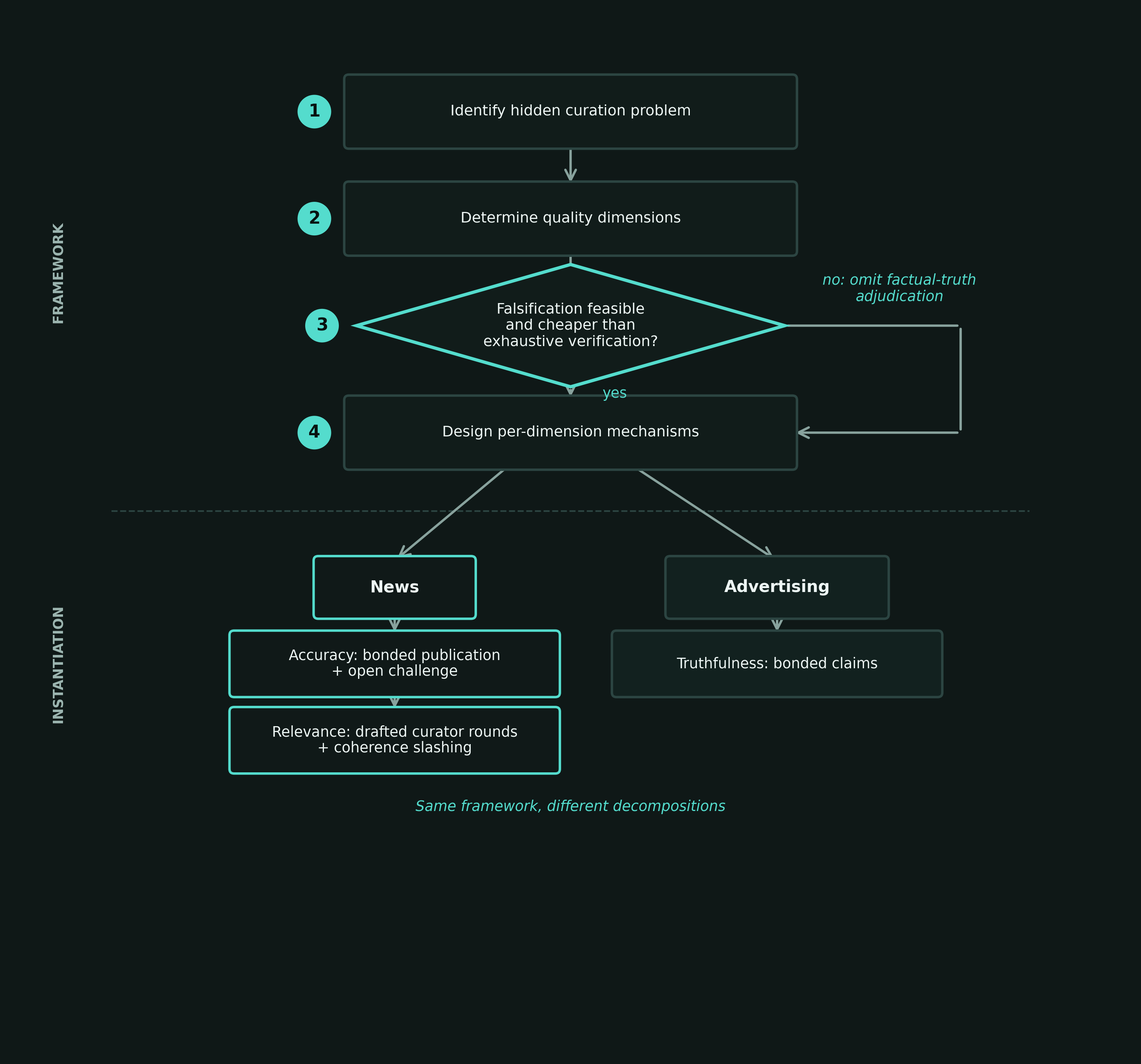
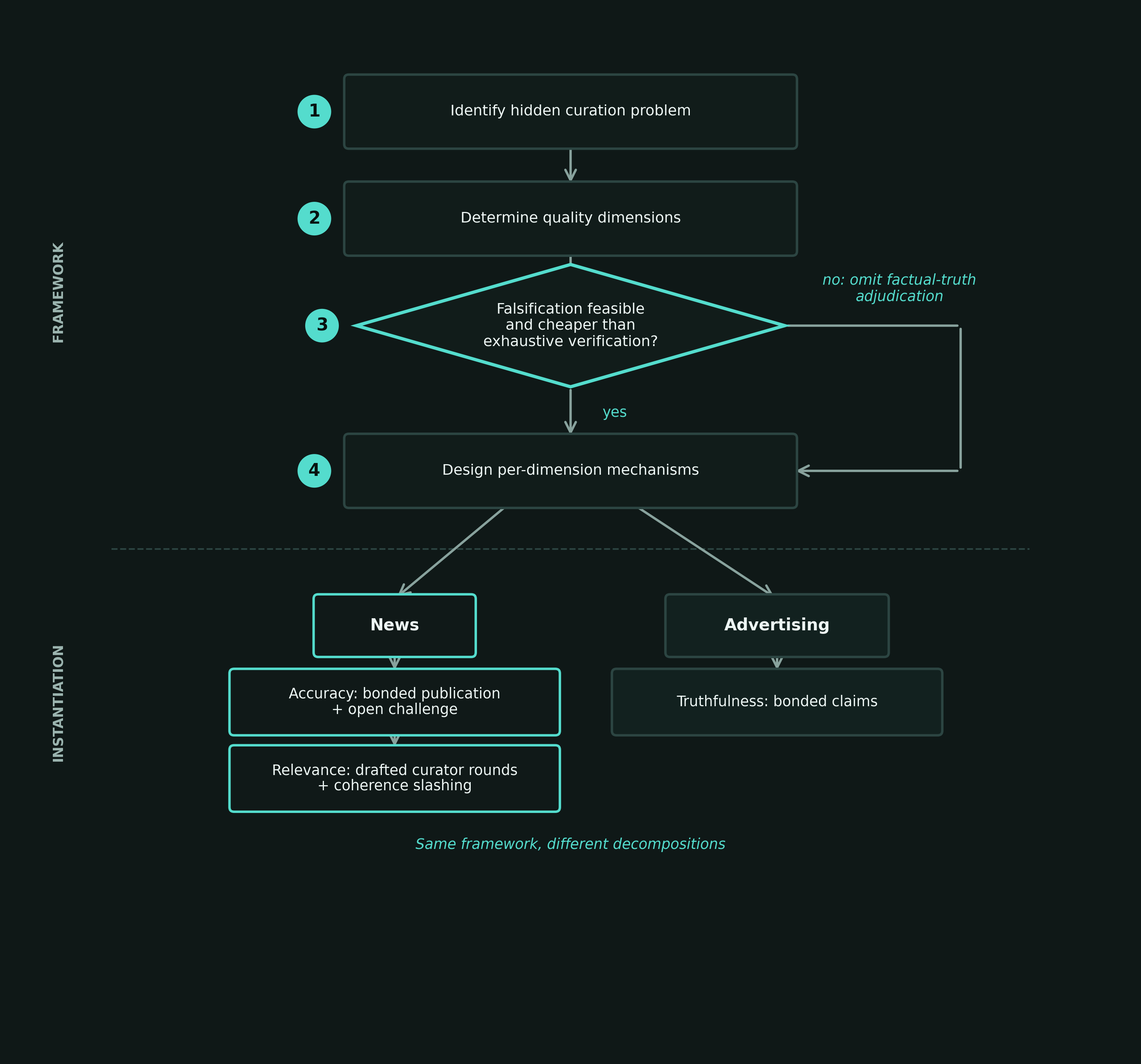
fix(paper): complete equilibrium claim withdrawal
Carry the profitable-report counterexample through the abstract, threat
summaries, RPGF, talks and literature notes. Correct the remaining
concentration, variance and calibration claims, and track reward redesign
in #141.

Generate both missing dark plot variants and separate overlapping figure
labels. Numerical rules and inputs are unchanged; all 15 CSVs remain
byte-identical after make verify-full.

diff --git a/analysis/run_all.py b/analysis/run_all.py
@@ -1959,20 +1959,20 @@ def run_e2_prime_sigma_sweep(
     ax1.set_xlabel("Fraction of colluding curators")
     ax1.set_ylabel("Mean |μ − r|")
     ax1.set_title(
-        f"E2'-Adv σ sweep: signal error vs collusion (K={params.K}, N={params.n_seeds} seeds)"
+        f"E2'-Adv σ sweep: signal error vs collusion\n(K={params.K}, N={params.n_seeds} seeds)"
     )
     ax1.legend(frameon=False, fontsize=8)
 
     ax2.set_xlabel("Fraction of colluding curators")
     ax2.set_ylabel("Colluder stake share")
     ax2.set_title(
-        f"E2'-Adv σ sweep: colluder stake after 200 rounds (N={params.n_seeds} seeds)"
+        f"E2'-Adv σ sweep: colluder stake after {params.rounds} rounds\n(N={params.n_seeds} seeds)"
     )
     ax2.set_ylim(0.0, 0.4)
     ax2.legend(frameon=False, fontsize=8)
 
     plt.tight_layout()
-    plt.savefig(FIG_DIR / "e2_prime_sigma_sweep.png", dpi=200)
+    _save_figure_variants(fig, FIG_DIR / "e2_prime_sigma_sweep.png", dpi=200, bbox_inches=None)
     plt.close()
 
 
@@ -2136,7 +2136,7 @@ def run_e2_prime_trojan(
     ax1.set_xlabel("Trojan delay (honest rounds before attack)")
     ax1.set_ylabel("Mean |μ − r|")
     ax1.set_title(
-        f"Trojan accumulation: signal error (φ={params.colluding_frac}, N={params.n_seeds} seeds)"
+        f"Trojan accumulation: signal error\n(φ={params.colluding_frac}, N={params.n_seeds} seeds)"
     )
 
     ax2.bar(x, df["final_colluder_stake_share_mean"],
@@ -2147,11 +2147,11 @@ def run_e2_prime_trojan(
     ax2.set_xlabel("Trojan delay (honest rounds before attack)")
     ax2.set_ylabel("Final colluder stake share")
     ax2.set_title(
-        f"Trojan accumulation: colluder survival (φ={params.colluding_frac}, N={params.n_seeds} seeds)"
+        f"Trojan accumulation: colluder survival\n(φ={params.colluding_frac}, N={params.n_seeds} seeds)"
     )
 
     plt.tight_layout()
-    plt.savefig(FIG_DIR / "e2_prime_trojan.png", dpi=200)
+    _save_figure_variants(fig, FIG_DIR / "e2_prime_trojan.png", dpi=200, bbox_inches=None)
     plt.close()
 
 

diff --git a/diagrams/generate_diagrams.py b/diagrams/generate_diagrams.py
@@ -469,7 +469,8 @@ def fig5_framework(out):
     ax.text(ncx3, s3y, '3', fontsize=10.5, fontweight='bold',
             color=C['inverse'], ha='center', va='center', zorder=6)
 
-    s4y = y0 - 3 * gap
+    mechanism_selection_extra_gap = 0.5
+    s4y = y0 - 3 * gap - mechanism_selection_extra_gap
     _arr(ax, cx, s3y - dh, cx, s4y + bh / 2)
     ax.text(cx + 0.42, (s3y - dh + s4y + bh / 2) / 2, 'yes', fontsize=8.8,
             color=C['accent'], ha='left', va='center', zorder=10)

diff --git a/projects/rpgf/design.md b/projects/rpgf/design.md
@@ -30,7 +30,7 @@ Two dimensions dominate:
 
 Design principle: do not decompose quality further than your mechanisms can distinguish. Two mechanisms (challenge-based accuracy, coherence-based relevance) mean two dimensions. Additional quality considerations (efficiency, novelty, team quality) belong inside the relevance policy as scoring criteria, not as separate protocol mechanisms.
 
-### Step 3: Require falsifiability
+### Step 3: Require testable nomination assertions
 
 Impact claims must be expressed as falsifiable assertions. This is harder than traditional text claims because impact submissions default to narrative. The **template** does the heavy lifting.
 
@@ -39,7 +39,7 @@ The relevant region on the falsifiability spectrum:
 - **Falsifiable**: "Our tool was used by 500 developers in Q1 2026" (verifiable usage data)
 - **Falsifiable**: "We deployed contract X at address Y on date Z" (on-chain evidence)
 - **Not falsifiable**: "We improved the developer experience" (no measurable assertion)
-- **Not testable as stated**: "This infrastructure prevented $2M in losses" (without a specified causal comparison, identification assumptions, or supporting evidence)
+- **Not falsifiable as stated**: "This infrastructure prevented $2M in losses" (without a specified causal comparison or possible evidentiary test)
 
 The template must reject non-falsifiable assertions and force projects to express impact as falsifiable, measurable claims. Nominations that fail to contain testable assertions under the pool's template and evidence policy are challengeable as `NonFalsifiable`.
 
@@ -176,7 +176,7 @@ Three adjudication outcomes, orthogonal to operational state:
 
 **Scoring failure paths.** Low-dispersion rounds and quorum failure are treated differently:
 
-- *Low-dispersion round* (sigma below the dispersion floor): the round's mean is accepted as a valid relevance score. Distance-based slashing is skipped because the band has collapsed; nonparticipation penalties remain applicable. Round rewards are scaled by `f_reward` with floor `rho`, increasing with `sigma` up to `sigma_ref` (see the paper's coherence game definition for the smooth reward formula). This preserves genuine consensus signals (if curators honestly agree, the score stands) while reducing the incentive for undifferentiated scoring. In a batch model, cancelling low-dispersion rounds is counterproductive: if a nomination genuinely deserves a consensus score, every retry will also produce low dispersion, eventually excluding a nomination that curators unanimously evaluated.
+- *Low-dispersion round* (sigma below the dispersion floor): the round's mean is accepted as a valid relevance score. Distance-based slashing is skipped because the band has collapsed; nonparticipation penalties remain applicable. Round rewards are scaled by `f_reward` with floor `rho`, increasing with `sigma` up to `sigma_ref` (see the paper's coherence game definition for the smooth reward formula). This preserves genuine consensus signals (if curators honestly agree, the score stands) while reducing payments for undifferentiated reports. Reduced payments do not establish truthful incentives: small artificial dispersion can increase rewards (see Open Problems: Reward padding). In a batch model, cancelling low-dispersion rounds is counterproductive: if a nomination genuinely deserves a consensus score, every retry will also produce low dispersion, eventually excluding a nomination that curators unanimously evaluated.
 - *Quorum failure* (reveals < minimum quorum): the round is retried once with a fresh draft. If the retry also fails quorum, the nomination transitions to `Unscored`: excluded from allocation, bond refunded, no reputation change, bypasses holdback. The author is not penalized for curator infrastructure failure. `Unscored` is distinct from a score of 0 (which means "judged irrelevant" under the rubric).
 
 **DDR timeout defaults to author victory.** If DDR does not resolve within the timeout period (90 days), the nomination is treated as if the challenge failed. The author is not guilty unless proven; it is the challenger's burden to win the dispute.
@@ -342,7 +342,7 @@ These defaults are reference-pool starting points, not empirically validated opt
 
 Challenge-cost parameters (counter-stake ratio, challenge tax, author bond) are partially grounded by the challenge incentive analysis above: the worked example shows how they interact to determine break-even success probabilities. But the analysis is local to one parameter configuration and does not identify robust optima across heterogeneous pool sizes, DDR fee regimes, or nomination value distributions.
 
-Relevance-game parameters are inherited from the paper's coherence game design and include new mechanisms not present in earlier versions. Draw-and-lock staking introduces seat size L as a calibration parameter: too small and single-curator weight concentration re-emerges; too large and small curators are excluded. Graduated slashing replaces the former binary slash rate; K now governs both the coherence threshold and the penalty gradient (at the band boundary the penalty is zero; at twice the boundary distance it is total loss of locked tokens). Per-identity weight caps have been removed; weight concentration is instead bounded by the seat-based lottery and the draw-and-lock mechanism. Smooth reward scaling introduces rho (minimum reward fraction for zero-dispersion rounds) and epsilon_sigma (dispersion floor), replacing the former all-or-nothing degenerate-round reward switch. The base coherence-game design also defines a relevance-round escalation layer with appeal-specific parameters (appeal committee size multiplier, appeal-success threshold, maximum escalation depth). Those escalation parameters are inherited from the paper and intentionally omitted from the reference RPGF pool profile table above, which remains the complete implementation checklist for the scoped profile described here. No RPGF-specific equilibrium analysis has been conducted for any of the in-scope relevance-game parameters.
+Relevance-game parameters are inherited from the paper's coherence game design and include new mechanisms not present in earlier versions. Draw-and-lock staking introduces seat size L as a calibration parameter controlling eligibility granularity and capital locked per seat: a high L excludes small curators, but no choice of L alone caps a curator's share of seats. Graduated slashing replaces the former binary slash rate; K now governs both the coherence threshold and the penalty gradient (at the band boundary the penalty is zero; at twice the boundary distance it is total loss of locked tokens). Per-identity weight caps have been removed. Weight concentration depends on the eligible stake distribution and the draft; draw-and-lock bounds each curator's coherence-slashing exposure by their funded seats but does not prevent one curator from holding all drafted seats. Smooth reward scaling introduces rho (minimum reward fraction for zero-dispersion rounds) and epsilon_sigma (dispersion floor), replacing the former all-or-nothing degenerate-round reward switch. The base coherence-game design also defines a relevance-round escalation layer with appeal-specific parameters (appeal committee size multiplier, appeal-success threshold, maximum escalation depth). Those escalation parameters are inherited from the paper and intentionally omitted from the reference RPGF pool profile table above, which remains the complete implementation checklist for the scoped profile described here. No RPGF-specific equilibrium analysis has been conducted for any of the in-scope relevance-game parameters.
 
 Reputation parameters (reward, penalty, decay) are likewise directional: the 5:1 penalty-to-reward ratio and 30-day decay epoch are design choices intended to make debunking costly while allowing recovery. The effective recovery time analysis in the Registry Entry Reputation section provides a first-order check, but interaction with round frequency, pool count, and heterogeneous project quality remains unvalidated.
 
@@ -369,6 +369,10 @@ The following table compares the RPGF instantiation with the thesis's other inst
 
 ## Open Problems
 
+### Reward padding
+
+The main paper's Curator voting strategy section demonstrates a profitable unilateral report deviation that increases dispersion while avoiding distance-based slashing and remaining below the threshold for a successful appeal to the policy-implied score. The reward-scaling incentive also remains at the RPGF reference reward fraction; its exploitability depends on the configured appeal threshold and other round parameters. How should the reward and appeal rules change to remove this incentive while retaining genuine low-dispersion consensus? The current rules remain unchanged pending that analysis, tracked in [issue #141](https://github.com/0xferit/manuscript-decentralized-curation/issues/141).
+
 ### Registry quality and beneficiary mapping
 
 The RPGF mechanism assumes an upstream curated project-beneficiary registry. If that registry misidentifies beneficiaries, allows duplicate or captured entries, or applies weak claimant policy, the funding layer inherits those errors. Duplicate suppression, beneficiary routing, and cross-round reputation are only as strong as the registry's curation quality. This file treats the registry as a prerequisite abstraction rather than specifying its governance or dispute system.
@@ -383,7 +387,7 @@ The competitive redirection incentive improves challenger participation but crea
 
 ### Counterfactual impact
 
-This profile supports documented output claims ("we built X"). A narrative such as "X prevented Y from happening", without a specified causal comparison or evidentiary test, is not testable as stated. A nomination that contains no testable assertions under the template and evidence policy is challengeable as `NonFalsifiable`. Counterfactual causal estimates are not inherently untestable; some can be identified and estimated from observed data under explicit assumptions [@dahabreh2019generalizing]. This profile does not specify standards for adjudicating those estimates.
+This profile supports documented output claims ("we built X"). A narrative such as "X prevented Y from happening", without a specified causal comparison or evidentiary test, is not testable as stated. A nomination that contains no testable assertions under the template and evidence policy is challengeable as `NonFalsifiable`. Counterfactual quantities can sometimes be identified and estimated from observed data under explicit assumptions. For example, Dahabreh et al. identify population counterfactual outcome means using randomized trials nested in cohorts [@dahabreh2019generalizing]. Identification under assumptions does not establish that those assumptions are empirically testable, or that a particular RPGF claim meets this profile's evidence rules. The profile does not specify standards for adjudicating such causal estimates; absence of supporting evidence alone does not make an assertion unfalsifiable.
 
 Curators can still score the mission relevance of admissible, documented outputs without establishing their counterfactual impact. Nominations must nevertheless satisfy the template and evidence rules. Scoring occurs before holdback challenges; a successful challenge then removes the nomination's provisional allocation. Thus the scoring mechanism can operate without causal adjudication, while the testability requirement still restricts eligible nominations. Relevance scores express policy-conditioned valuation and do not establish incremental causal benefit.
 
@@ -429,11 +433,11 @@ No. Voters are not forbidden from having preferences. The mechanism simply does 
 
 ### What is a coherence game and why does it help?
 
-A coherence game rewards agreement among independently committed reports. A specific public rubric can supply a substantive focal point: curators seek to anticipate judgments based on the same criteria. Claim 3 in the main paper discusses conditions that can support concentration around policy-implied relevance, but does not establish truthful reporting as a Bayesian Nash equilibrium under the full reward and appeal rules. Signal concentration and truthful best responses are distinct questions.
+A coherence game rewards agreement among independently committed reports. A specific public rubric can supply a substantive focal point: curators seek to anticipate judgments based on the same criteria. Claim 3 in the main paper demonstrates a profitable unilateral deviation under permitted reward parameters. It therefore supplies a counterexample to a general truthful-reporting guarantee under the current rules. Signal concentration and truthful best responses are distinct questions.
 
 The main paper uses phi* to describe observed degradation under particular simulated collusion configurations. It is not a proven boundary for honest equilibrium and has not been calibrated for RPGF. Here, allocation incentives can create additional reasons to distort scores; an RPGF-specific strategic analysis remains necessary.
 
-### Why won't this collapse into a Keynesian beauty contest?
+### How does the design address beauty-contest incentives?
 
 The mechanism retains beauty-contest incentives: participants are rewarded for anticipating other curators' judgments, including those of an appeal committee. The public, versioned rubric is intended to make policy-based judgment a focal point and reduce arbitrary coordination. It does not eliminate higher-order beliefs or establish that participants select a policy-faithful equilibrium. Even establishing one truthful equilibrium would not establish its uniqueness or selection; peer-prediction research treats these as separate problems [@kong2016peerprediction]. Strategic reporting and coordination failures therefore remain possible below the degradation thresholds observed in the main paper's simulations.
 

diff --git a/projects/truth-post/blueprint.md b/projects/truth-post/blueprint.md
@@ -780,7 +780,7 @@ Transitions are driven by the DDR adapter. Truth Post MUST mirror the authoritat
 
 - If the eligible curator set is smaller than `minRevealQuorum`, the round is cancelled before drafting, nobody is slashed, and the claim keeps its previous relevance score if one exists.
 - If the round is drafted but revealed participation ends below `minRevealQuorum`, drafted curators who failed to commit or reveal MUST be slashed as non-participants, but no curator reward MUST be paid and no new relevance score MUST be produced. Non-participation slashes from such a cancelled round MUST be credited to the pool reward budget. Pre-reveal leak slashes, if any, MUST still be paid to the reporter per the leak-report payout rules and MUST NOT be redirected to the pool budget. A replacement round is scheduled at the next cadence.
-- Low-dispersion rounds are no longer cancelled as degenerate. Instead, rewards scale smoothly with sigma. Let `R` denote the base round reward, `rho` the minimum reward fraction, `epsilon_sigma` the dispersion floor, and `sigma_ref = max(epsilon_sigma, ema_sigma)`, where `ema_sigma` is the EMA-based reference dispersion defined in Flow F. The reward factor is `f_reward = rho + (1 - rho) * min(1, sigma / sigma_ref)`. At `sigma = 0` the reward is `rho * R` (minimum); at `sigma >= sigma_ref` the full `R` is paid; between them the transition is linear. When `sigma < epsilon_sigma`, the low-dispersion guard suppresses only distance-based slashing for valid revealers (`p_i = 0` for that purpose); non-participation slashes for drafted curators who fail to commit or reveal still apply. The weighted mean is still accepted as a valid relevance score. Released tokens remain slashable during the appeal window: withdrawals during the appeal window are allowed only to the extent that they do not reduce the deposited balance below the curator's outstanding appeal exposure. If a subsequent appeal succeeds, the protocol debits the slash from that reserved balance; if no appeal is filed before the window closes, the reserve is removed and the balance becomes fully withdrawable. Design note: smooth reward scaling eliminates the cliff that degenerate-round cancellation created. A step function that switched from zero to full rewards at a fixed cutoff would incentivize curators to inject artificial variance to cross the threshold, producing systematic bias. The smooth curve removes that discontinuity. More broadly, the coherence mechanism assumes that a pool's relevance policy is specific enough to anchor curator signals near a defensible ground truth. If all curators share the same bias, they will converge on a wrong answer and be rewarded. The hypothesized defense is competitive pool selection: if biased curation produces bad feeds, users migrate to better pools, and the biased pool loses relevance. The protocol does not prevent bad curation within a pool; the design intention is that bad curation remains pool-local rather than protocol-global. The additional defense is escalation: a dissenting minority that believes the first-round score is wrong can appeal, and if the appeal committee agrees with the minority, the original majority is slashed (see Flow F-bis: Relevance-Round Escalation).
+- Low-dispersion rounds are no longer cancelled as degenerate. Instead, rewards scale smoothly with sigma. Let `R` denote the base round reward, `rho` the minimum reward fraction, `epsilon_sigma` the dispersion floor, and `sigma_ref = max(epsilon_sigma, ema_sigma)`, where `ema_sigma` is the EMA-based reference dispersion defined in Flow F. The reward factor is `f_reward = rho + (1 - rho) * min(1, sigma / sigma_ref)`. At `sigma = 0` the reward is `rho * R` (minimum); at `sigma >= sigma_ref` the full `R` is paid; between them the transition is linear. When `sigma < epsilon_sigma`, the low-dispersion guard suppresses only distance-based slashing for valid revealers (`p_i = 0` for that purpose); non-participation slashes for drafted curators who fail to commit or reveal still apply. The weighted mean is still accepted as a valid relevance score. Released tokens remain slashable during the appeal window: withdrawals during the appeal window are allowed only to the extent that they do not reduce the deposited balance below the curator's outstanding appeal exposure. If a subsequent appeal succeeds, the protocol debits the slash from that reserved balance; if no appeal is filed before the window closes, the reserve is removed and the balance becomes fully withdrawable. Design note: smooth reward scaling eliminates the cliff that degenerate-round cancellation created. A step function that switched from zero to full rewards at a fixed cutoff would incentivize curators to inject artificial variance to cross the threshold, producing systematic bias. The smooth curve removes that discontinuity but retains increasing rewards below `sigma_ref` when `rho < 1`. Artificial dispersion can therefore raise payouts while avoiding distance-based slashing and a successful appeal to the policy-implied score; see the main paper’s Curator voting strategy counterexample and Open Questions below. More broadly, the coherence mechanism assumes that a pool's relevance policy is specific enough to anchor curator signals near a defensible ground truth. If all curators share the same bias, they will converge on a wrong answer and be rewarded. The hypothesized defense is competitive pool selection: if biased curation produces bad feeds, users migrate to better pools, and the biased pool loses relevance. The protocol does not prevent bad curation within a pool; the design intention is that bad curation remains pool-local rather than protocol-global. The additional defense is escalation: a dissenting minority that believes the first-round score is wrong can appeal, and if the appeal committee agrees with the minority, the original majority is slashed (see Flow F-bis: Relevance-Round Escalation).
 
 This hypothesis has not been empirically validated. Several well-documented dynamics in platform economics could prevent pool competition from functioning as described:
 
@@ -1028,7 +1028,7 @@ where `ema_sigma` is an exponential moving average of recent round sigmas: `ema_
 f_reward = rho + (1 - rho) * min(1, sigma / sigma_ref)
 ```
 
-At `sigma = 0` the reward is `rho * R` (minimum). At `sigma >= sigma_ref` the reward is full `R`. Between them the transition is linear.
+At `sigma = 0` the reward is `rho * R` (minimum). At `sigma >= sigma_ref` the reward is full `R`. Between them the transition is linear. This rule retains the reward-padding limitation described in the Relevance Round State Model and the main paper’s Curator voting strategy section; smoothing alone does not establish truthful incentives.
 
 14. Slashing guard: if `sigma < epsilon_sigma`, distance-based graduated slashing is skipped for curators who successfully committed and revealed a valid score (`p_i = 0`, `delta_i = 0` for those curators). This guard does NOT waive non-participation penalties: failures to commit or reveal remain slashable at `p_i = 1` under the non-participation rules below. The mean is still accepted as a valid relevance score. Rewards in this branch: all valid revealers are coherent (`p_i = 0`), so `sum(delta_j) = 0` (no distance-based slashing revenue) and the reward pool is `f_reward * R` only, distributed proportionally to `w_i` among valid revealers. Non-participants who are slashed at `p_i = 1` contribute their `delta_i = w_i` to the pool budget, not to the reward distribution. Released tokens remain slashable during the appeal window: withdrawals during the appeal window are allowed only to the extent that they do not reduce the deposited balance below the curator’s outstanding appeal exposure.
 
@@ -1435,6 +1435,7 @@ The blueprint’s relevance-layer mechanism design now matches the paper: draw-a
 
 ## Open Questions
 
+- How should reward scaling and appeal rules change to remove the profitable dispersion-padding deviation documented in the main paper’s Curator voting strategy section while preserving genuine low-dispersion consensus? The current Flow F and Flow F-bis rules remain unchanged pending that analysis, tracked in [issue #141](https://github.com/0xferit/manuscript-decentralized-curation/issues/141).
 - Whether the external DDR should remain Kleros v1 indefinitely or later be replaced by a custom adapter-compatible court or a newer Kleros version.
 - Whether future interfaces should expose additional feed formulas beyond `relevanceScore * confidencePercentile`.
 - Exact percentile algorithm, active-set definition, and tie handling for cross-indexer consistency in `confidencePercentile` computation.

diff --git a/literature/george-2023-impossibility.md b/literature/george-2023-impossibility.md
@@ -10,28 +10,26 @@ For Schelling-style coordination games (peer-to-peer, crowdsourced information s
 
 - **Impossibility theorem**: the central result. For games with >= 3 ranked alternatives and minimal attack resistance properties, truth-telling cannot always be an equilibrium. This bounds what Schelling-based mechanisms can achieve.
 - **Minimal attack resistance**: the properties that any reasonable mechanism should satisfy (e.g., you cannot profit by simply copying someone else's report, the mechanism is not trivially gameable). These are weak conditions, making the impossibility strong.
-- **Ranked alternatives**: the impossibility requires that the alternatives can be ranked (ordered). This is the key technical condition our paper exploits: binary choice and scalar aggregation are not "ranked alternatives" in the required sense.
+- **Ranked alternatives**: applying the theorem to a proposed mechanism requires matching its alternatives, reports and payoffs to the theorem’s assumptions. A scalar reporting space alone does not establish that the mechanism falls outside its scope.
 
 ## Connection to our paper
 
-This is the primary constraint our mechanism design must navigate. We cite it as the reason we cannot claim truthful reporting is always an equilibrium in the general case. Our contribution is identifying **restricted conditions** where the impossibility does not bind:
+We cite this result as a constraint on general truthful-reporting claims. The paper does not establish an escape theorem for its relevance mechanism:
 
 ### Binary accuracy (DDR disputes)
 - The impossibility requires >= 3 ranked alternatives. Binary choice (Valid/Invalid) has only 2 alternatives, so the impossibility does not apply.
-- Under-specified is a structural rejection (claim fails template validation), not a third ranked alternative that jurors compare against Valid/Invalid.
+- `NonFalsifiable` and `TemplateViolation` identify challenge reasons adjudicated against a pool’s requirements. They are not additional truth values ranked alongside Valid/Invalid.
 - This is a clean escape: the impossibility literally does not cover the binary case.
 
 ### Scalar relevance (coherence game)
-- Curators report on [0,1] (continuous scalar), aggregated by weighted mean with K-sigma threshold.
-- George's impossibility applies to **rankings** over discrete alternatives. Scalar aggregation with a coherence band is a different game structure.
-- The escape here is less clean than the binary case: we argue the game structure is sufficiently different that the impossibility does not "directly bind," but we should be careful about overclaiming. The impossibility is about ranked discrete alternatives; our game is about distance from a continuous mean. These are structurally different, but proving they are formally outside the impossibility's scope requires care.
+- Curators report a scalar in [0,1], aggregated by weighted mean with a dispersion-dependent penalty.
+- Direct application of the impossibility result requires a formal mapping between the games. Regardless of that mapping, the paper’s [Claim 3](../paper.qmd#curator-voting-strategy) demonstrates a profitable deviation under permitted relevance-reward parameters.
 
 ## Key takeaways for our paper
 
-1. We cannot claim our mechanisms always produce truth. We should not try. The mechanisms produce signals that are more expensive to fake than to verify honestly.
-2. The binary restriction for accuracy is well-justified and clean.
-3. The scalar restriction for relevance is defensible but less airtight. We should frame it as "the impossibility does not directly bind" rather than "the impossibility does not apply."
-4. This paper is also useful for explaining why simpler approaches (e.g., voting on quality with 3+ categories) would fail: the impossibility directly applies.
+1. We cannot claim our mechanisms always produce truth or that every false report is more expensive than an honest one. The stated reward rule permits profitable dispersion padding.
+2. The ranked-alternative theorem’s assumptions must be checked against each proposed mechanism; changing the reporting space is not a proof of incentive compatibility.
+3. Analyze the actual utilities, information, reward and appeal rules before claiming a truthful equilibrium.
 
 ## Relationship to George (2023b) on griefing
 

diff --git a/literature/schelling-1960-strategy-of-conflict.md b/literature/schelling-1960-strategy-of-conflict.md
@@ -23,13 +23,12 @@ Schelling's focal point theory is the theoretical foundation for both our mechan
 - Binary choice is the simplest focal point structure: one option is consistent with the evidence, the other is not. Salience is high when the evidence is clear.
 
 ### Relevance (coherence game)
-- Curators independently rate policy conformity on [0,1] and must converge.
-- The focal point is the "honest assessment of curation policy conformity."
-- This is where Schelling's theory does the heaviest lifting: the curation policy is what creates the focal point. Without a specific, public policy, there is no salient coordination target, and the game degenerates.
-- **Proposition 2** in our paper is essentially: if the curation policy is specific enough to induce a unique focal point, honest reporting is a Nash equilibrium under commit-reveal.
+- Curators report policy conformity on [0,1].
+- Honest assessment is the intended focal point. A specific public policy can make that target salient, but participants may coordinate on other reports.
+- Salience does not establish truthful best responses or equilibrium selection. [Claim 3 in the paper](../paper.qmd#curator-voting-strategy) gives a profitable unilateral deviation under permitted reward parameters.
 
 ### Why policy specificity matters
-Schelling's insight explains why vague curation policies break the system. A vague policy provides a weak focal point; curators coordinate on an *interpretation* rather than a *reality*. The interpretation may be wrong, and worse, it may be manipulable. The specificity of the curation policy is not a UX concern; it is a game-theoretic requirement for equilibrium existence.
+Policy specificity makes policy-faithful assessment easier to define. Vague policies leave competing interpretations, but a precise policy alone does not make honest reporting an equilibrium. The full reward, penalty and appeal rules determine best responses.
 
 ## Key passages worth keeping
 
@@ -44,5 +43,5 @@ This maps to our design: the curation policy is the "rule that both can find."
 ## Limitations relevant to us
 
 - Schelling assumes common knowledge of the game structure. In practice, curators may not fully understand the curation policy or the coherence mechanism, weakening the focal point.
-- Focal point theory does not predict what happens when two competing focal points exist (e.g., two plausible interpretations of a policy). Our defense is claim templates and the Under-specified verdict: if ambiguity creates competing focal points, the claim should be rejected.
-- George (2023) proves that for three or more ranked alternatives, truthful reporting cannot always be an equilibrium. Our binary and scalar instantiations are designed to avoid this impossibility, but the boundary conditions matter.
+- Competing policy interpretations can support different coordination targets. Templates and typed `NonFalsifiable` or `TemplateViolation` challenges enforce the pool’s explicit requirements; policy ambiguity alone does not establish that a challenge succeeds.
+- George (2023) identifies limits on truthful equilibria in ranked-alternative games. Applying that result to our scalar mechanism requires a formal mapping; a different reporting space is not evidence of incentive compatibility.

diff --git a/literature/george-2023-griefing.md b/literature/george-2023-griefing.md
@@ -14,14 +14,13 @@ Provides a formal framework for measuring the cost of attacks on cryptoeconomic 
 
 ## Connection to our paper
 
-We use the griefing factor framework as the formal security metric for our mechanisms:
+The framework supplies a possible metric for future analysis of our mechanisms. The manuscript does not establish a common griefing-factor bound across disputes and relevance attacks.
 
-- **DDR disputes**: for a challenger attacking a true claim with p = 0.80 and S/B = 0.25, GF is approximately 37. The attacker pays 37x what the victim loses. This makes frivolous challenges extremely expensive.
-- **For a legitimate challenger** disputing a false claim, the asymmetry is reversed: the false claim author pays more than the challenger risks. This is the intended incentive alignment.
-- **Coherence game**: the colluding plurality threshold (~20-30% of stake) is the point where GF crosses 1 for coordinated attacks. Below that threshold, colluders lose more than they inflict; above it, they can redefine the coherent band.
+- **DDR disputes**: a griefing calculation must distinguish expected attacker cost from expected victim loss and include the specified fees, payout rules and adjudication error. A cost-to-harm ratio would be the inverse of GF as defined above.
+- **Coherence game**: the paper reports relevance error and stake trajectories under specified collusion strategies. Its observed degradation range is not a measured GF=1 crossing or a security boundary; [Claim 3](../paper.qmd#curator-voting-strategy) also gives a profitable unilateral deviation without a colluding coalition.
 
 ## Key takeaways
 
-1. GF provides a single number to compare mechanism security across designs. Useful for the simulation section.
-2. The GF framework makes attack costs concrete and comparable. Reviewers can evaluate whether the mechanism is "secure enough" without running simulations.
-3. The distinction between GF for legitimate challengers (low, by design) and GF for frivolous challengers (high, by design) is the core of the incentive argument.
+1. GF can compare particular attacks when harm and cost use compatible definitions and assumptions.
+2. Defining the metric does not compute it for this protocol. Attack-specific analysis remains necessary.
+3. Legitimate correction and malicious disruption have different objectives; classify the action before interpreting the ratio.

diff --git a/talks/thesis-presentation-script.md b/talks/thesis-presentation-script.md
@@ -108,11 +108,11 @@ An important caveat: the mechanism makes falsehood expensive to sustain if chall
 
 Relevance is different. Relevance is not well served by a binary yes-or-no process. Relevance is a ranking problem. It is about what matters more, not just whether something passes a threshold.
 
-So for relevance I use a policy-guided coherence game. Curators stake into a pool, are drafted into rounds, and independently rate how strongly a claim conforms to the pool’s curation policy. Outliers are slashed. Coherent participants are rewarded.
+So for relevance I use a policy-guided coherence game. Curators stake into a pool, are drafted into rounds, and independently rate how strongly a claim conforms to the pool’s curation policy. Reports outside the coherence band can be slashed when dispersion meets the floor. Coherent participants are rewarded.
 
-This mechanism resists small colluding minorities, but at our reference parameters (K=1.25, 15-member committees) it degrades when a coordinated bloc exceeds a colluding fraction of roughly 15 to 20 percent. The threshold depends on the coherence parameter, committee size, and policy specificity; it is not a universal constant. Below that threshold, colluder impact remains limited in our simulations; above it, a coordinating bloc can bend the signal. This is a known constraint, not a solved problem.
+Under the tested reporting strategies, the simulations show increasing relevance distortion as colluding stake grows. They do not establish a safe collusion threshold. The paper also demonstrates a profitable unilateral report that adds artificial dispersion without a colluding coalition. Truthful incentive compatibility remains unresolved.
 
-This is where Schelling-style reasoning becomes important. The mechanism does not ask curators to assert global truth. It asks them to converge on policy-grounded relevance under conditions where their incentives favor disciplined judgment.
+This is where Schelling-style reasoning becomes important. A public policy is intended to make informed relevance assessment a focal point. Whether the full reward and appeal rules make disciplined judgment the best strategy requires further analysis.
 
 The deeper point is this:
 

diff --git a/literature/groves-ledyard-1977-free-rider.md b/literature/groves-ledyard-1977-free-rider.md
@@ -16,10 +16,10 @@ Proposes a mechanism for optimal public goods allocation that solves the free-ri
 
 We draw a structural parallel between the Groves-Ledyard deviation penalty and our coherence game's slashing mechanism:
 
-- **Coherence game slashing = deviation penalty**: in our coherence game, curators whose ratings deviate from the weighted mean by more than K-sigma lose stake. This is functionally a deviation penalty: the cost of deviation incentivizes honest reporting (or at least reporting consistent with the focal point).
-- **Structural parallel, not direct application**: Groves-Ledyard operates on preference revelation for public goods. Our coherence game operates on relevance assessment for news claims. The mathematical structure (quadratic-ish penalty for deviation from aggregate) is similar, but the domains are different.
+- **Coherence-game deviation penalties**: the protocol penalizes some reports outside its coherence band, subject to the dispersion guard. That is a penalty for disagreement, not a proof of truthful incentives; [Claim 3](../paper.qmd#curator-voting-strategy) gives a profitable deviation below the guard.
+- **Limited structural analogy**: Groves-Ledyard concerns public-goods allocation. The relevance mechanism uses a different reward and penalty rule for news scoring. Sharing a deviation-penalty idea does not transfer an equilibrium result.
 - **Public goods framing**: in the closing section, we frame the allocation problem as optimization over a weight vector summing to 1. The Groves-Ledyard connection reinforces that the information problem (how do you know the right weights?) is upstream of the allocation problem.
 
 ## Key takeaway
 
-The Groves-Ledyard parallel helps position our coherence game in the established mechanism design literature. It is not a new invention but an application of a known incentive structure (deviation penalties) to a new domain (information curation). This strengthens the theoretical grounding.
+The parallel motivates examining deviation penalties. It does not establish incentive compatibility of the coherence game; that requires an analysis of its own utilities, information and payment rules.

diff --git a/literature/miller-2005-peer-prediction.md b/literature/miller-2005-peer-prediction.md
@@ -17,11 +17,11 @@ Proposes a mechanism for eliciting honest reports about subjective experiences (
 Peer prediction is cited as related work in the mechanism design landscape:
 
 - **Comparison with our coherence game**: both peer prediction and our coherence game reward consistency among agents. The difference: peer prediction uses pairwise comparison with a random peer; our coherence game aggregates all ratings and uses a K-sigma threshold. Our approach is closer to a Schelling game than to peer prediction.
-- **Why we chose Schelling over peer prediction**: (1) peer prediction requires assumptions about signal correlation structure that may not hold for news relevance; (2) our curation policy provides a focal point that substitutes for the structural assumptions; (3) the Schelling game is simpler for participants (report a single number, not a probabilistic assessment).
+- **Design tradeoff**: the coherence game uses a single scalar report and a public policy as an intended focal point. The policy does not substitute for the assumptions needed by a truthful-elicitation theorem. Its simpler reporting interface comes with unresolved incentive compatibility, including the deviation in [Claim 3](../paper.qmd#curator-voting-strategy).
 - **Potential hybrid**: peer prediction ideas could strengthen our coherence game, e.g., by cross-checking outlier ratings against peers before slashing. This is not explored in the current paper.
 
 ## Limitations
 
 - Assumes agents' signals are conditionally independent given the true state. In information markets, signals may be correlated through common sources, violating this assumption.
 - Requires known prior distributions or sufficient data to estimate them. In cold-start scenarios, priors are unavailable.
-- The mechanism can have equilibria where everyone reports the same (uninformative) answer. Additional structure (like our curation policy focal point) may be needed to select the truthful equilibrium.
+- Equilibrium existence and selection are separate questions. A public policy may supply a focal point, but that alone does not prove selection of a truthful equilibrium in our game.

diff --git a/literature/prelec-2004-bts.md b/literature/prelec-2004-bts.md
@@ -17,8 +17,8 @@ Proposes a mechanism for eliciting truthful reports about subjective quantities 
 BTS is an alternative approach to truthful elicitation that we considered and implicitly rejected:
 
 - **Why not BTS for accuracy?**: our accuracy dimension has ground truth (or at least an evidence standard). BTS is designed for settings without ground truth. Using BTS for factual claims would be over-engineered: binary dispute resolution is simpler and exploits the existence of evidence.
-- **Why not BTS for relevance?**: relevance is subjective (closer to BTS's target domain), but BTS requires respondents to predict the distribution of others' answers. In our coherence game, curators rate policy conformity against a public curation policy. The curation policy serves as the focal point, making BTS's prediction mechanism unnecessary: the policy *is* the coordination device.
-- **Theoretical positioning**: BTS, peer prediction (Miller 2005), and our coherence game are all answers to "how do you elicit truthful reports without centralized verification?" Our design choices are driven by the specific structure of our problem (binary accuracy + policy-guided relevance), not by BTS being wrong in general.
+- **Why not BTS for relevance?**: the coherence game asks for a single policy-conformity score rather than an additional prediction of others’ answers. Its public policy is intended to supply a focal point. This simplifies reporting but does not establish that prediction elicitation is unnecessary for truthful incentives.
+- **Theoretical positioning**: BTS and peer prediction (Miller 2005) provide related approaches to truthful elicitation under their respective assumptions. Our coherence game pursues a similar aim but does not inherit their guarantees; the paper’s [Claim 3](../paper.qmd#curator-voting-strategy) demonstrates a profitable deviation under permitted settings.
 
 ## Limitations
 

diff --git a/talks/reading-group-curation-talk-script.md b/talks/reading-group-curation-talk-script.md
@@ -181,7 +181,7 @@ Relevance stays inside the pool and is judged by drafted curators under the pool
 
 This is also where I rely on Schelling-style reasoning, but with caution. The system does not assume that people coordinate directly on truth. It assumes they coordinate on expected defensible judgment under explicit rules. That is a weaker claim, but I think it is the more realistic one.
 
-A known limitation: the mechanism resists small colluding minorities, but at our reference parameters (K=1.25, 15-member committees) it degrades when a coordinated bloc exceeds a colluding fraction of roughly 15 to 20 percent. The threshold depends on the coherence parameter, committee size, and policy specificity. Below that threshold, colluder impact remains limited in our simulations; above it, a coordinating bloc can bend the relevance signal. This constraint is quantified in the paper but not yet solved.
+The simulations show increasing relevance distortion as colluding stake grows under the tested reporting strategies. The apparent degradation range is not a safe threshold or a proof that honest reporting pays best below it. The paper also gives an example where one curator increases their reward by adding artificial dispersion, even without a colluding coalition. The current simulations do not search for those strategic best responses.
 
 The deeper point is that mechanism design begins only after the conceptual decomposition is done. If we start with mechanism design too early, we usually end up solving the wrong problem.
 
